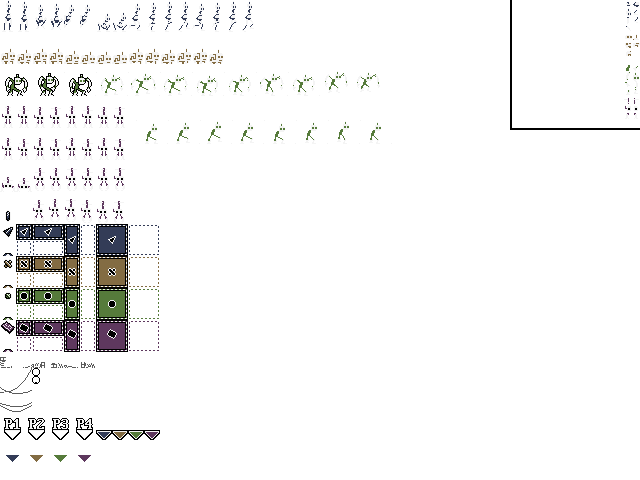
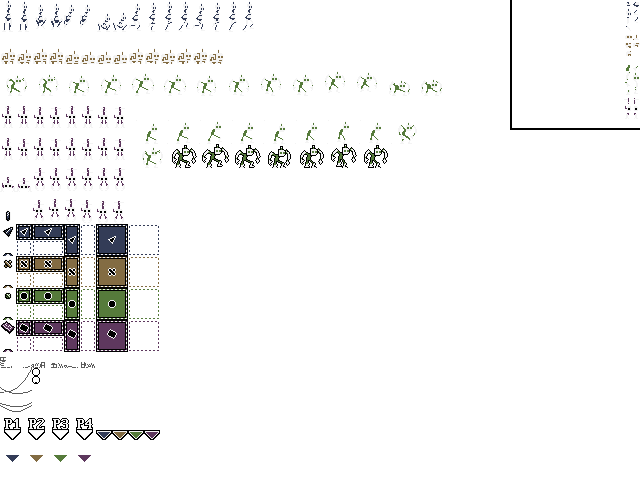
finished up animations forr player c

diff --git a/src/game/spriteref.py b/src/game/spriteref.py
@@ -96,7 +96,9 @@ class _ObjectSheet(spritesheets.SpriteSheet):
         self.player_c = {
             PlayerStates.IDLE: [],
             PlayerStates.AIRBORNE: [],
-            PlayerStates.WALKING: []
+            PlayerStates.WALKING: [],
+            PlayerStates.CROUCH_IDLE: [],
+            PlayerStates.CROUCH_WALKING: []
         }
 
         self.player_d = {
@@ -240,6 +242,7 @@ class _ObjectSheet(spritesheets.SpriteSheet):
         self.player_c[PlayerStates.IDLE] = [_img(0 + i * 32, 64, 32, 32, offs=start_pos) for i in range(0, 2)]
         self.player_c[PlayerStates.WALKING] = [_img(64 + i * 32, 64, 32, 32, offs=start_pos) for i in range(0, 8)]
         self.player_c[PlayerStates.AIRBORNE] = [_img(320 + i * 32, 64, 32, 32, offs=start_pos) for i in range(0, 2)]
+        self.player_c[PlayerStates.CROUCH_IDLE] = [_img(384 + i * 32, 64, 32, 32, offs=start_pos) for i in range(0, 2)]
 
         self.player_d[PlayerStates.IDLE] = [_img(0 + i * 16, 96, 16, 32, offs=start_pos) for i in range(0, 8)]
         self.player_d[PlayerStates.WALKING] = [_img(0 + i * 16, 128, 16, 32, offs=start_pos) for i in range(0, 8)]

diff --git a/src/game/playertypes.py b/src/game/playertypes.py
@@ -133,7 +133,7 @@ class PlayerTypes:
     SMALL = PlayerType("B", 2, const.PLAYER_SMALL, size=(0.875, 0.75), can_be_grabbed=True, can_crouch=True,
                        move_speed=5.5, jump_height=2.1)
     HEAVY = PlayerType("C", 3, const.PLAYER_HEAVY, size=(1.25, 1.25), can_grab=True,
-                       move_speed=5, jump_height=3.2,
+                       move_speed=5, jump_height=3.2, can_crouch=True,
                        anim_rate_overrides={
                            spriteref.PlayerStates.WALKING: 1
                        })

diff --git a/README.md b/README.md
@@ -3,6 +3,8 @@ A platformer about robots.
 
 Here are the five most recent gifs committed:
 
+![074-player-c-anims.gif](gifs/074-player-c-anims.gif?raw=true "074-player-c-anims")
+
 ![073-spikes.gif](gifs/073-spikes.gif?raw=true "073-spikes")
 
 ![072-goal-indicator-proximity-fade.gif](gifs/072-goal-indicator-proximity-fade.gif?raw=true "072-goal-indicator-proximity-fade")
@@ -10,5 +12,3 @@ Here are the five most recent gifs committed:
 ![071-end-of-level-fadeouts.gif](gifs/071-end-of-level-fadeouts.gif?raw=true "071-end-of-level-fadeouts")
 
 ![070-player-fade-anim.gif](gifs/070-player-fade-anim.gif?raw=true "070-player-fade-anim")
-
-![069-indicators.gif](gifs/069-indicators.gif?raw=true "069-indicators")
